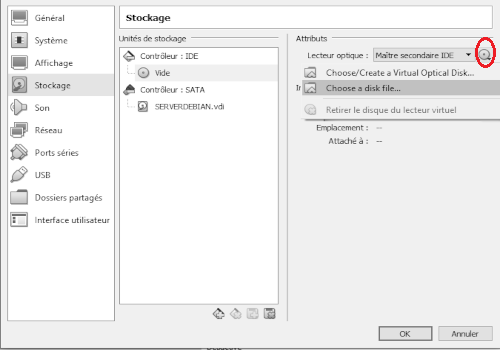
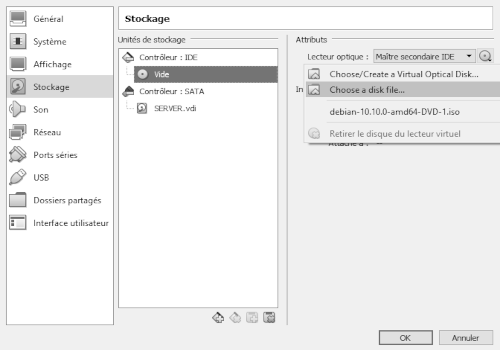
Update 04-machine-config

Changed region(s): [[0.0, 0.0, 1.0, 0.9429], [0.0, 0.9143, 1.0, 1.0], [0.96, 0.9143, 0.99, 0.9429]]

diff --git a/04-machine-config.md b/04-machine-config.md
@@ -4,7 +4,7 @@ ___
 
 #### PRE-REQUIS:
 - Droits utilisateurs Windows 10
-- Download le 1er ISO-DVD de [Debian 10.10.0](https://cdimage.debian.org/debian-cd/current/amd64/iso-dvd/ "Debian 10")
+- Download le 1er ISO-DVD de [Debian 11](https://cdimage.debian.org/debian-cd/current/amd64/iso-dvd/debian-11.0.0-amd64-DVD-1.iso "Debian 11")
 ___
 
 ![screenshot2](IMG/04-machine-config/01.png) 
